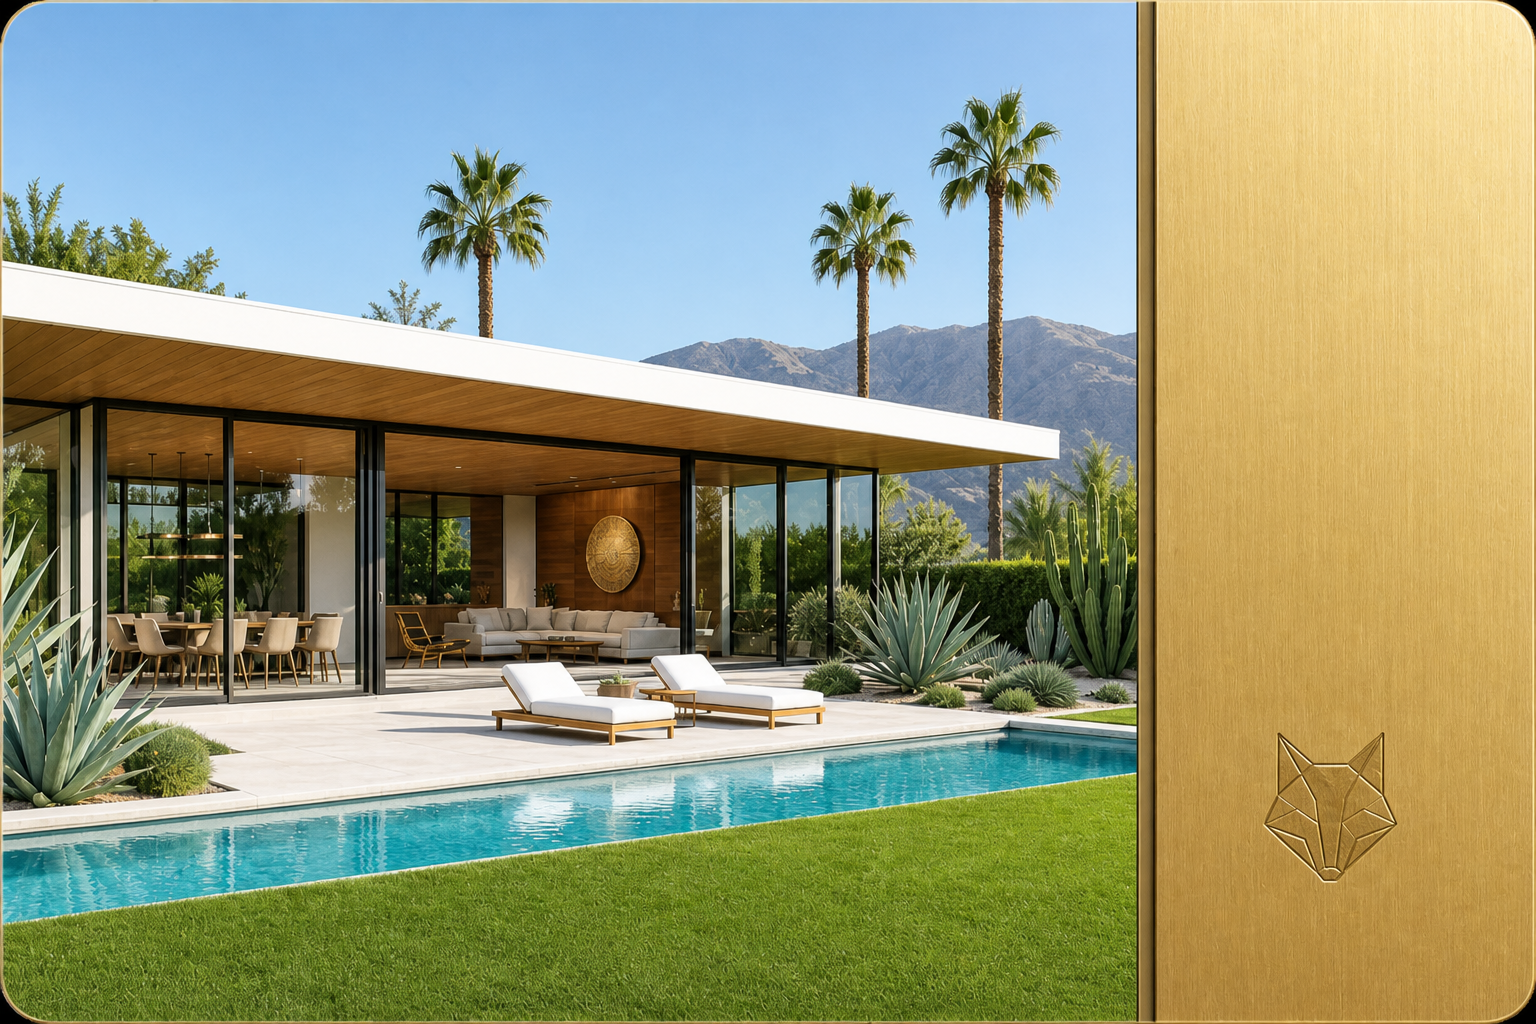
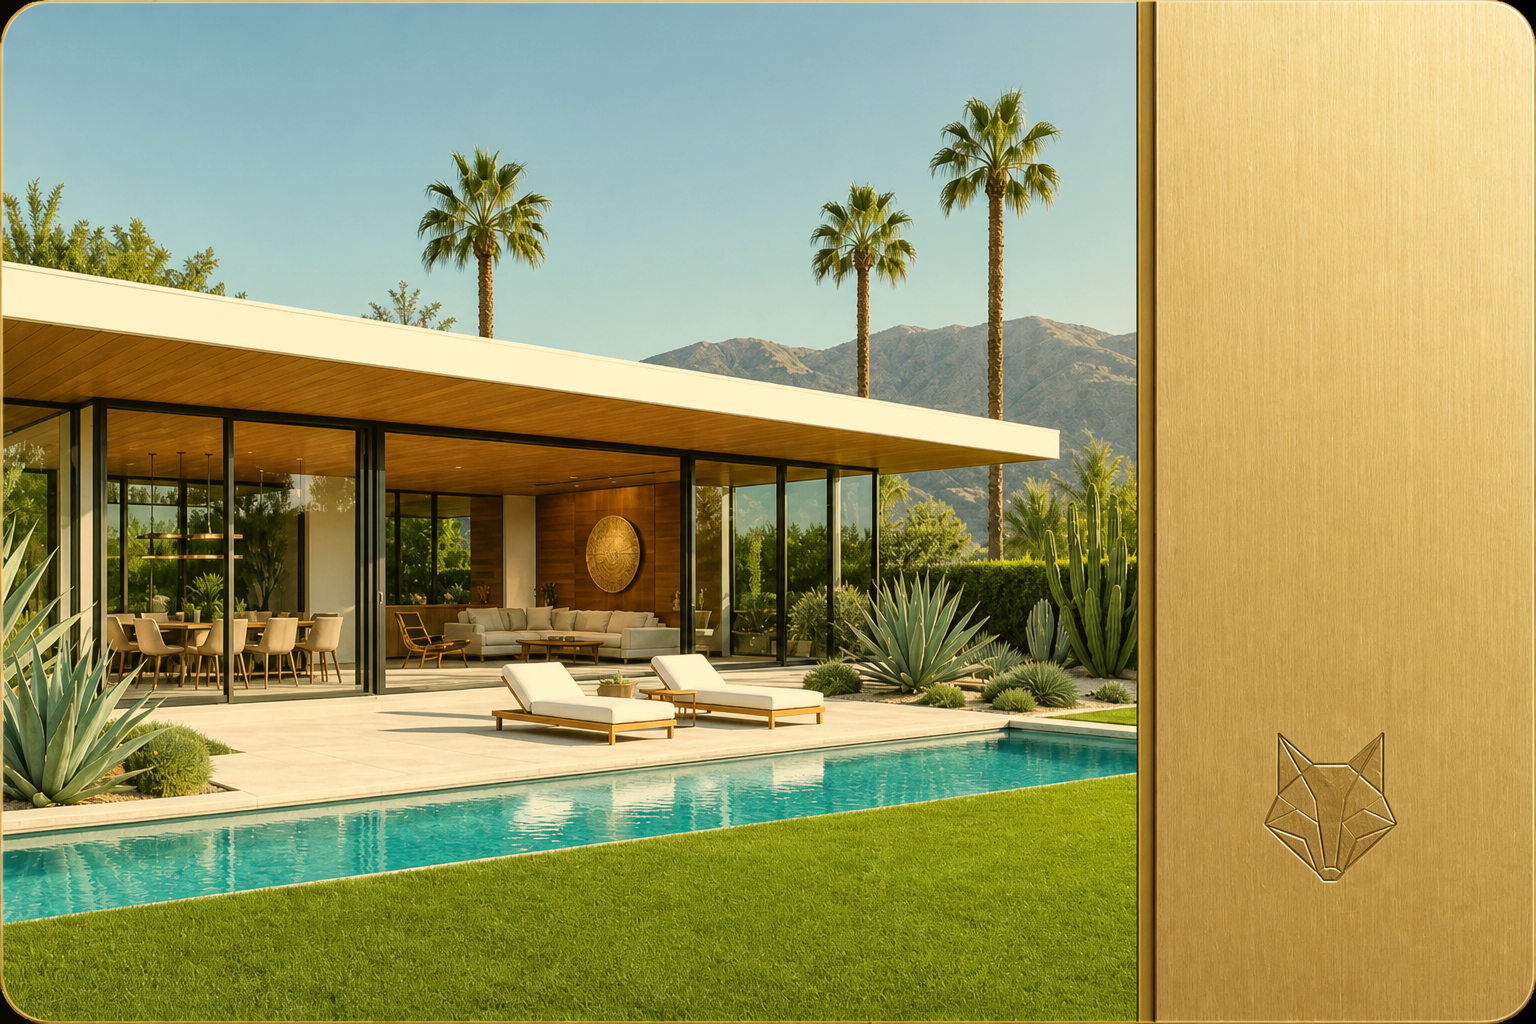
Warm the ACR card face to late-day California light
Grade the scene bitmap for golden sun and a warmer sky, leave the brass
dock clean, and keep the hero object static with no sweep.

diff --git a/styles/hero.css b/styles/hero.css
@@ -170,7 +170,7 @@
   font-weight: 500;
   letter-spacing: 0.2em;
   text-transform: uppercase;
-  color: rgba(255, 252, 246, 0.92);
+  color: rgba(61, 56, 51, 0.72);
   pointer-events: none;
 }
 

diff --git a/BUILD_MANUAL.md b/BUILD_MANUAL.md
@@ -19,7 +19,7 @@ Tokens, navigation, footer, and layout foundation. Keep this chrome.
 
 Homepage first screen is ACR-first: locked eyebrow / H1 / support, dual CTAs, in-hero broker line, and the locked pictorial ACR card.
 
-The hero object is **`public/acr-card-face.png`**: bright modern California house → green lawn → slim gold right dock (~20%) with a secondary geometric fox. CSS overlays only quiet `ACTIVE CREDIT RELATIONSHIP` top-left of the scene. **Static object** — no traveling sheen, no sweep, no motion. Do not add dimming, dusk filters, or dirty gold texture.
+The hero object is **`public/acr-card-face.png`**: late-day California warmth (not cool midday, not dusk-dark) → sun-warmed lawn → slim bright brass dock (~20%) with a secondary geometric fox. CSS overlays only quiet `ACTIVE CREDIT RELATIONSHIP` top-left of the scene. **Static object** — no traveling sheen, no sweep, no motion. Warmth lives in the bitmap, not a CSS filter.
 
 **Locked — do not reopen** house, zoom, gold width, or composition. Not the old CSS membership pass (no MEMBER, last-4, chip, or ONYX wordmark on the object).
 
